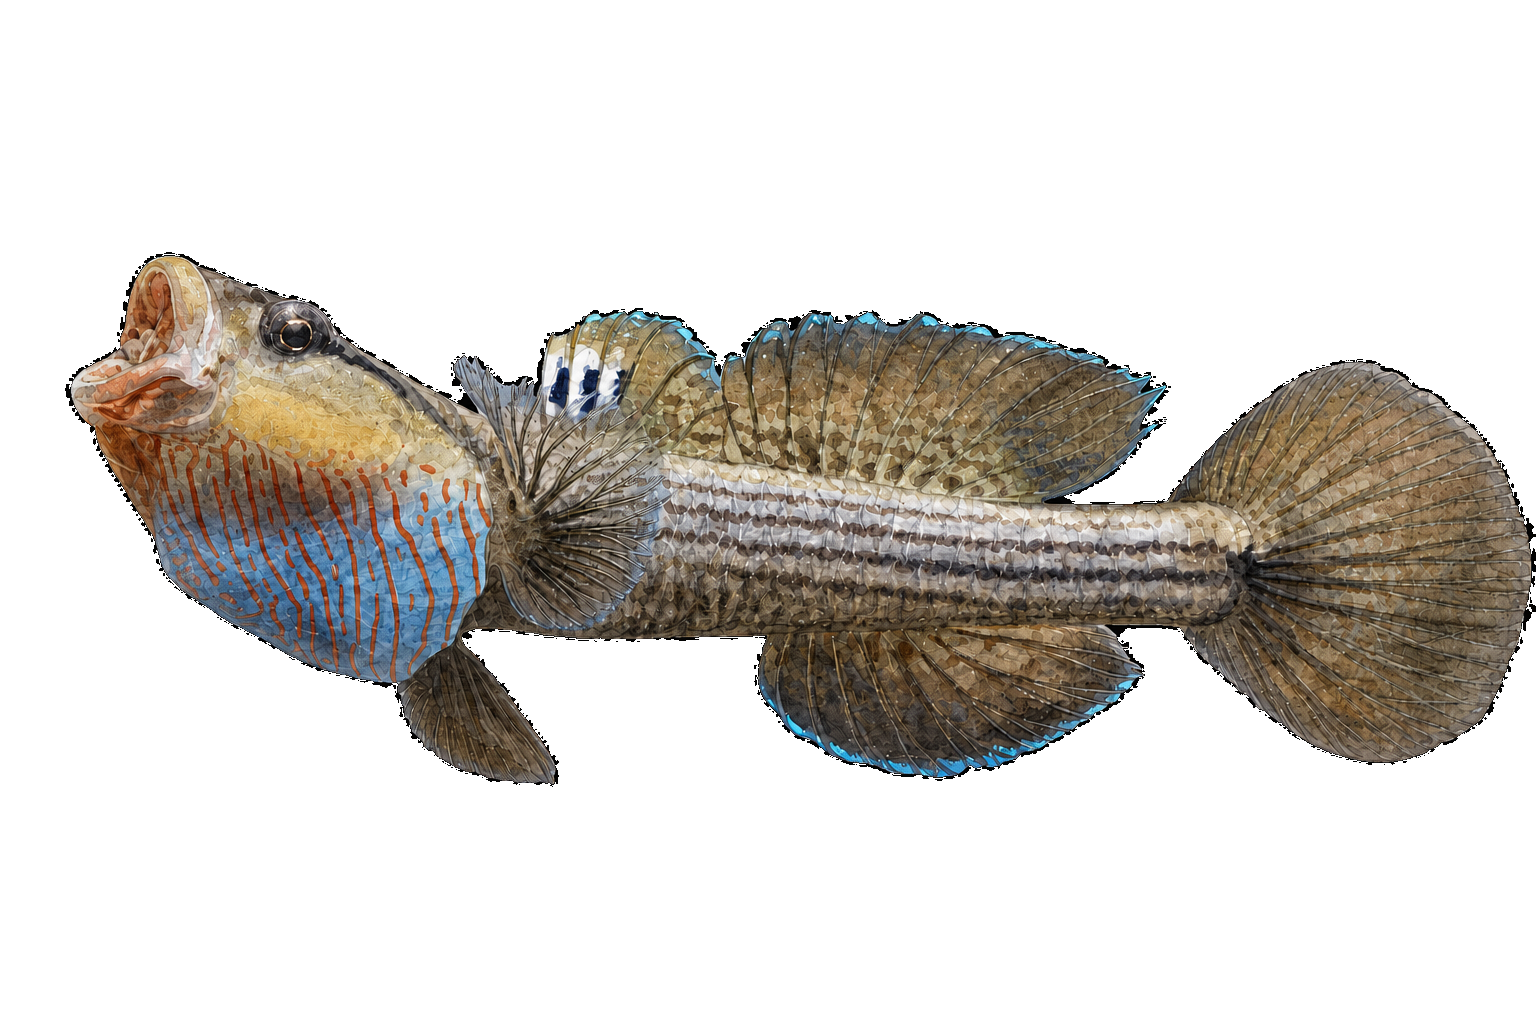
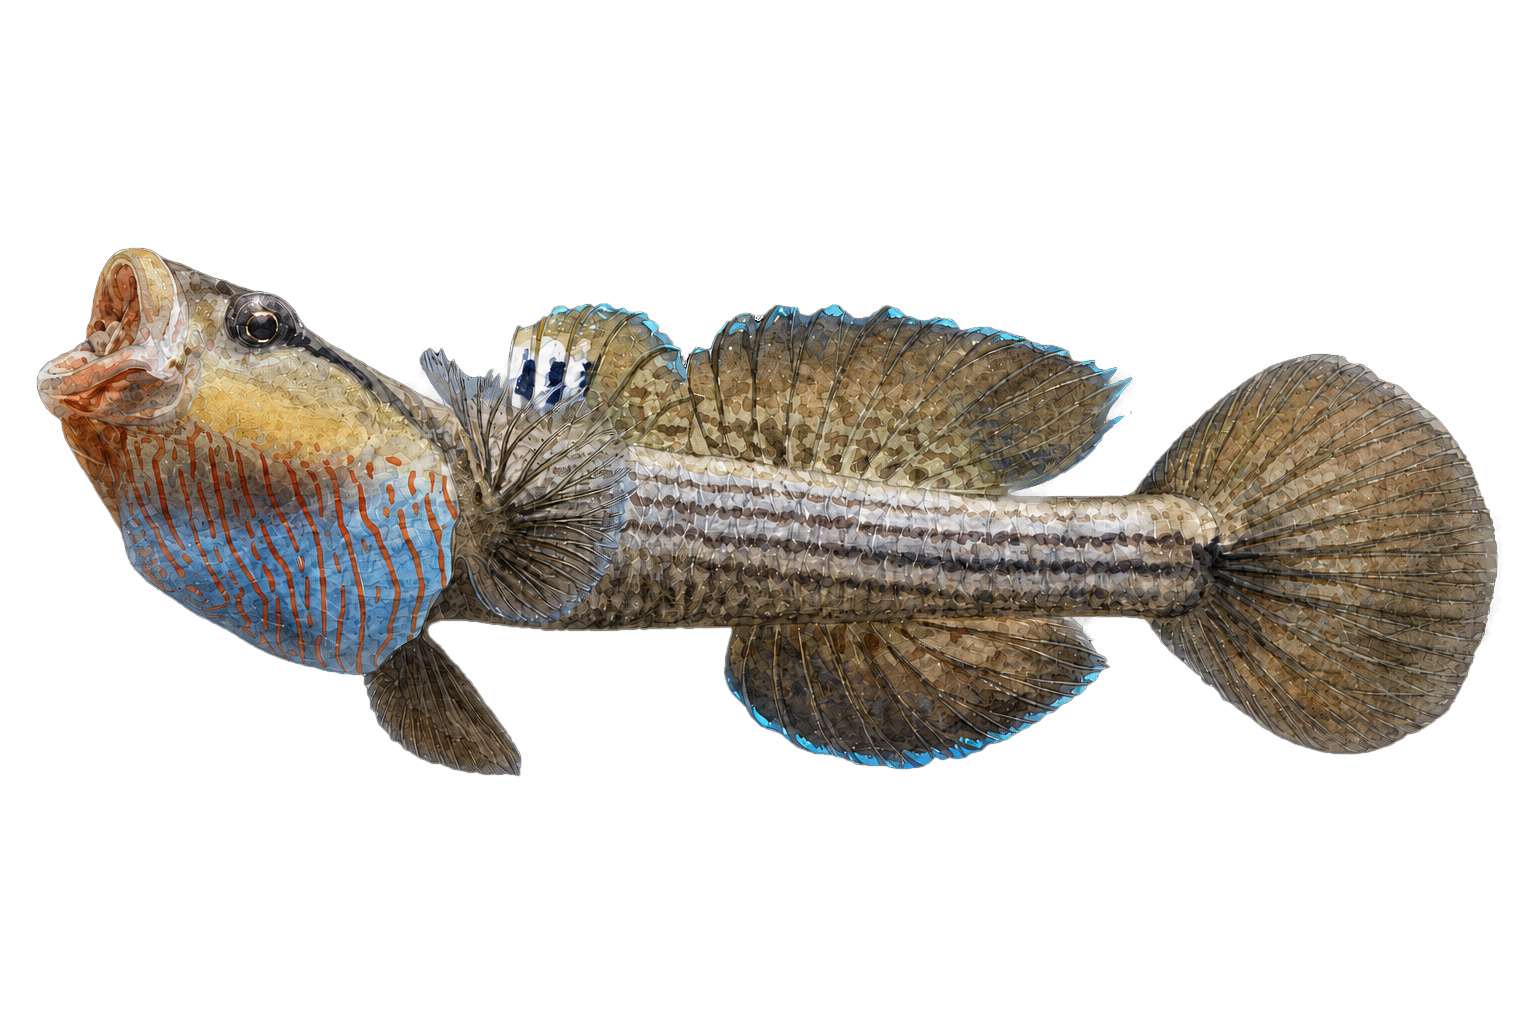
Refine transparent hero artwork

Changed region(s): [[0.0, 0.2188, 1.0, 0.7812]]

diff --git a/styles.css b/styles.css
@@ -63,14 +63,14 @@ button, input, select { font: inherit; }
 button { cursor: pointer; }
 .shell { width: min(1540px, calc(100% - 40px)); margin: 0 auto; padding: 42px 0 44px; }
 
-.compact-hero { position: relative; isolation: isolate; display: flex; justify-content: space-between; gap: 40px; min-height: 326px; align-items: flex-start; margin-bottom: 24px; overflow: hidden; }
-.compact-hero::after { position: absolute; z-index: 1; inset: 0; pointer-events: none; content: ''; background: linear-gradient(90deg, var(--paper) 0%, color-mix(in srgb, var(--paper) 92%, transparent) 24%, color-mix(in srgb, var(--paper) 52%, transparent) 48%, transparent 74%); }
-.catalogue-brand { position: relative; z-index: 2; padding-top: 40px; }
+.compact-hero { position: relative; isolation: isolate; display: flex; justify-content: space-between; gap: 40px; min-height: 224px; align-items: flex-start; margin-bottom: 24px; overflow: hidden; }
+.compact-hero::after { position: absolute; z-index: 1; inset: 0; pointer-events: none; content: ''; background: linear-gradient(90deg, var(--paper) 0%, color-mix(in srgb, var(--paper) 82%, transparent) 27%, transparent 58%); }
+.catalogue-brand { position: relative; z-index: 2; padding-top: 28px; }
 .compact-hero h1 { margin: 0; color: var(--ink); font-family: Georgia, "Times New Roman", serif; font-size: clamp(3.8rem, 7.1vw, 6.8rem); letter-spacing: -.055em; line-height: .88; }
 .catalogue-subtitle { margin: .68rem 0 0; color: var(--accent); font-size: clamp(1.08rem, 2.3vw, 1.56rem); font-weight: 750; letter-spacing: .045em; line-height: 1.1; }
 
 .hero-side { position: relative; z-index: 2; display: grid; justify-items: end; gap: 12px; padding-top: 14px; }
-.hero-fish { position: absolute; z-index: 0; top: -52px; left: clamp(120px, 12vw, 250px); width: min(76vw, 1160px); height: auto; pointer-events: none; user-select: none; opacity: .66; filter: saturate(.9) contrast(.98); }
+.hero-fish { position: absolute; z-index: 0; top: -84px; left: clamp(250px, 24vw, 460px); width: min(58vw, 920px); height: auto; pointer-events: none; user-select: none; opacity: .58; filter: saturate(.88) contrast(.98); }
 .stats-card { display: flex; align-items: stretch; min-width: 360px; background: var(--panel); border: 1px solid var(--line); border-radius: 13px; box-shadow: 0 10px 28px rgba(20, 48, 64, .06); overflow: hidden; backdrop-filter: blur(10px); }
 .headline-stat { display: grid; grid-template-columns: auto 1fr; align-items: baseline; column-gap: 9px; padding: 13px 18px; }
 .headline-stat strong { color: var(--sea); font-size: clamp(1.1rem, 1.7vw, 1.36rem); line-height: 1; font-variant-numeric: tabular-nums; }
@@ -125,10 +125,10 @@ td.chinese { font-family: SimHei, "Microsoft YaHei", sans-serif; font-weight: 70
 @media (max-width: 720px) {
   .shell { width: min(100% - 24px, 1540px); padding-top: 30px; }
   .compact-hero { flex-direction: column; gap: 22px; }
-  .compact-hero { min-height: 286px; }
-  .compact-hero::after { background: linear-gradient(180deg, color-mix(in srgb, var(--paper) 80%, transparent), transparent 70%); }
+  .compact-hero { min-height: 276px; }
+  .compact-hero::after { background: linear-gradient(180deg, color-mix(in srgb, var(--paper) 86%, transparent), transparent 64%); }
   .hero-side { width: 100%; justify-items: stretch; padding-top: 0; }
-  .hero-fish { top: 6px; left: -2%; width: min(112vw, 660px); opacity: .42; }
+  .hero-fish { top: -16px; left: 4%; width: min(96vw, 580px); opacity: .38; }
   .stats-card { min-width: 0; width: 100%; }
   .headline-stat { flex: 1; padding: 12px 13px; }
   .utility-bar { justify-content: flex-end; }